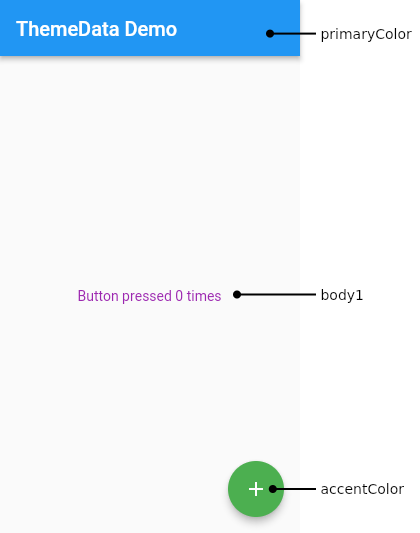
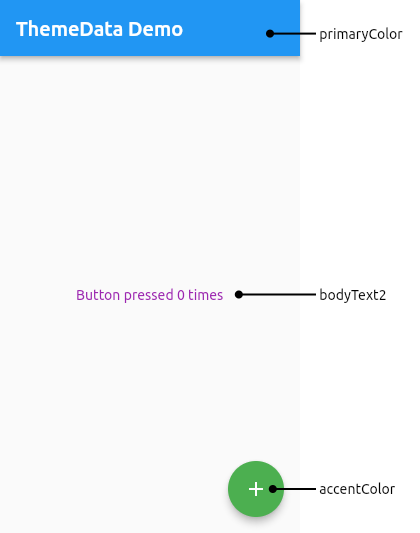
Update body text property name

diff --git a/packages/diagrams/lib/src/theme_data.dart b/packages/diagrams/lib/src/theme_data.dart
@@ -103,7 +103,7 @@ class ThemeDataDiagram extends StatelessWidget implements DiagramMetadata {
                           ),
                           Label(
                             _bodyKey,
-                            ' body1',
+                            ' bodyText2',
                             const FractionalOffset(1.1, 0.5),
                           ),
                           Label(
